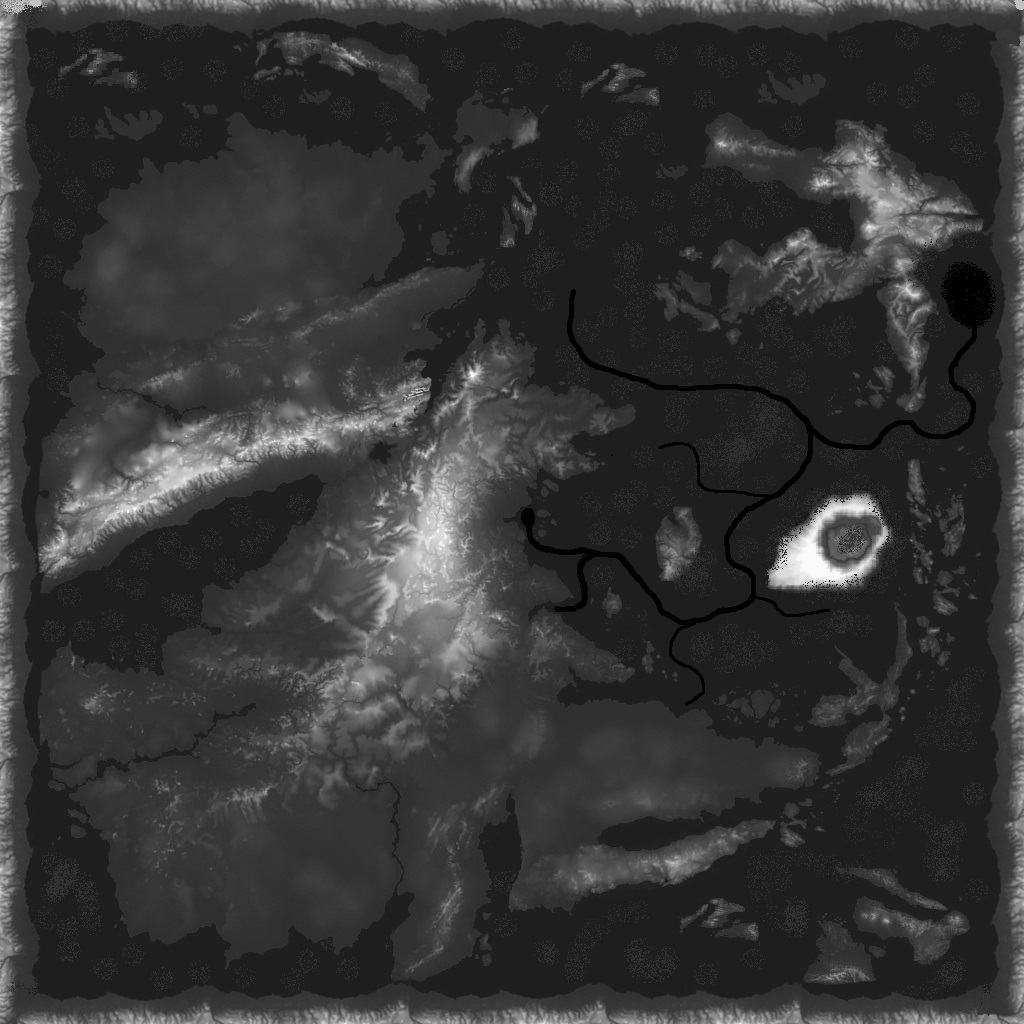
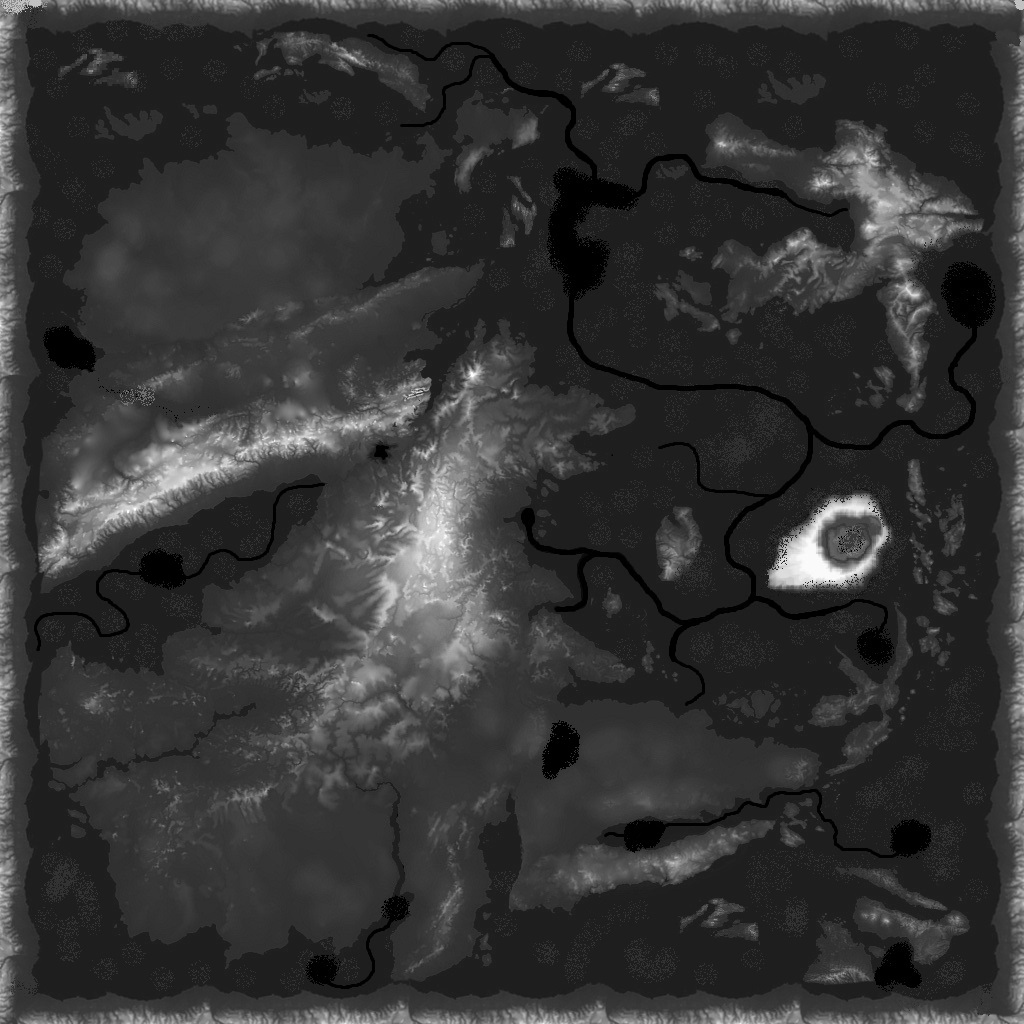
Ground - added rivers

diff --git a/index.html b/index.html
@@ -123,7 +123,7 @@
 
         player = new Player(scene);
 
-        camera = new BABYLON.FreeCamera("camera1", new BABYLON.Vector3(0, 220, 0), scene);
+        camera = new BABYLON.FreeCamera("camera1", new BABYLON.Vector3(162, 100, -265), scene);
         camera.attachControl(canvas, true);
         camera.angularsensibility *= -0.5;
         camera.speed = 10;
